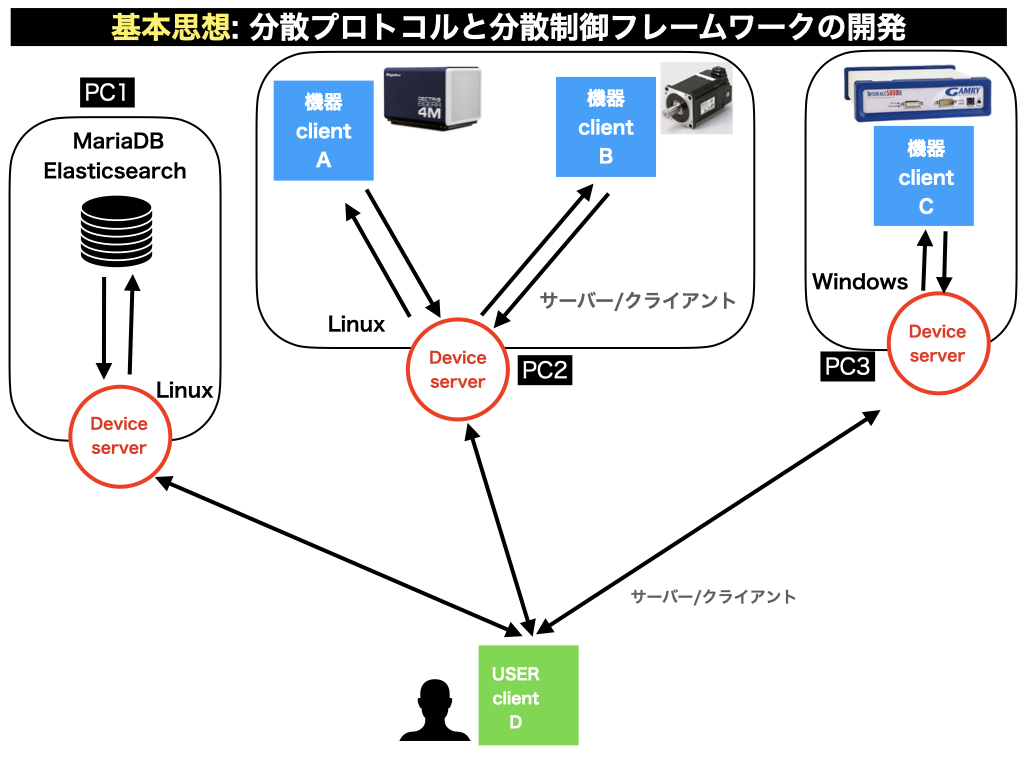
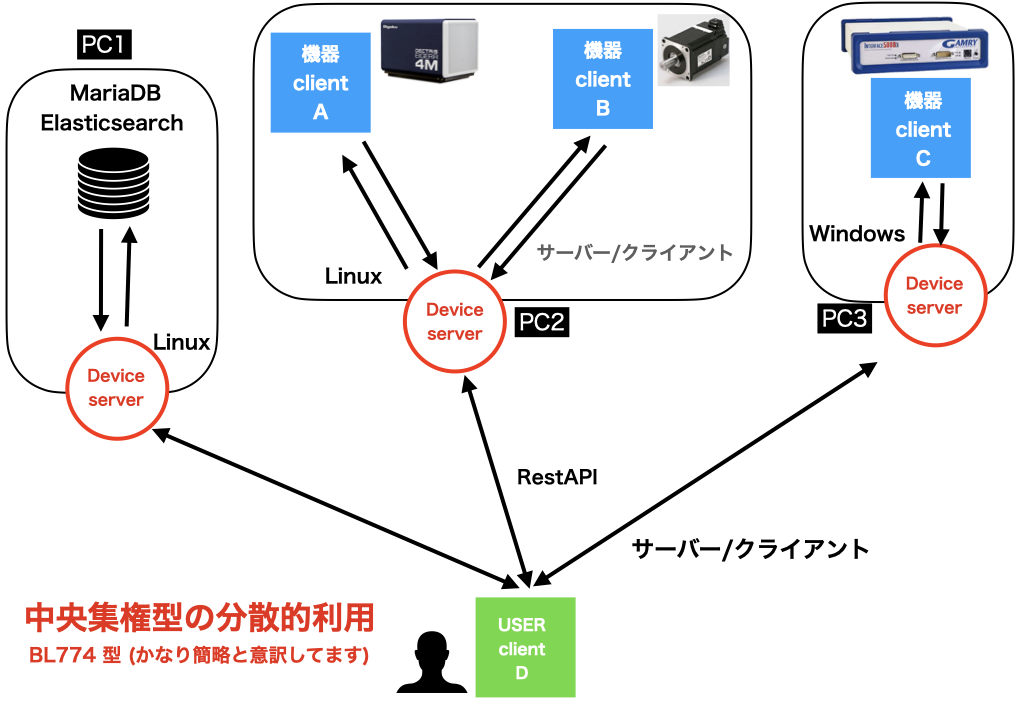
Update system overview section for the Susanoo Project in documentation

diff --git a/susanoo_dcs.md b/susanoo_dcs.md
@@ -12,9 +12,40 @@
 この場合は、もし、PC1が
 
 ![](fig/dcs_with_e.003.png)
+
 ---
+中央集権型。実際には中央集権型の多くは後述する。複数の中央集権型のあつまり
+として扱うことが多いので。模式的なモデル以上の意味はないかもしれないが、
+
+中央集権型 <-> 分散型
+
+というモデルの違いは理解おいた方が、制御として派遣形である。
 
 ![](fig/dcs_with_e.004.png)
+
 ---
+本格的な分散モデル。
+
+サーバー・サーバー間通信により各ノード間がつなり、
+ユーザーは一つのノードの対してアクセスするだけで、
+関連するノードを操作が可能になる。
+それぞれのデバイスサーバーに対して、デバイスプロキシなどで
+透過型でアクセスする限りは、ユーザーサイドから見れば
+ただの単一の python プログラムである。
+
 ![](fig/dcs_with_e.005.png)
+
 ---
+中央集権型を複数用意して、クライアントからそれぞれ使う。 
+プロトコルとしてみれば、本質は中央集権型。
+
+必要なデバイスサーバー(ノード)をユーザーはそれぞれ接続して
+接続する必要がある。
+それぞれがほぼ完全独立であり、非常にシンプルだが。
+デバイスサーバーなどの単位で分離している。
+
+それぞれのデバイスサーバーを透過型で使うことができれば、
+ユーザー側のpython プログラムから、特に何かを意識することなる。
+個別のpythonのクラスをそのまま使うだけでする。
+
+![](fig/dcs_with_e.006.png)
